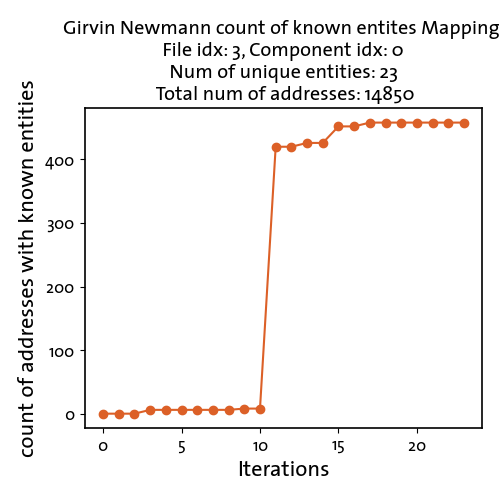
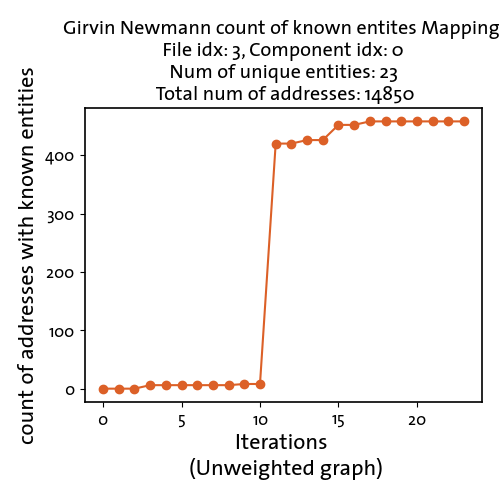
visualization title  changes

diff --git a/girvan_newmann_heuristic/src/utilities/main_gn_plot.py b/girvan_newmann_heuristic/src/utilities/main_gn_plot.py
@@ -68,7 +68,7 @@ def main(i, wt, modularity_df, save_dir):
     plot_girvan_newmann_metrics(
                                     modularity_df['count_of_known_entites'].index, 
                                     modularity_df['count_of_known_entites'], 
-                                    "Iterations", 
+                                    "Iterations \n ({} graph)".format(wt.capitalize()), 
                                     'count of addresses with known entities', 
                                     'Girvin Newmann count of known entites Mapping \n File idx: {}, Component idx: {} \n Num of unique entities: {} \n Total num of addresses: {}'.format(i, modularity_df['subgraph_index'][0], modularity_df['num_of_unique_entities_in_comp'][0], modularity_df['total_num_of_addresses_in_comp'][0]), 
                                     # 'Girvin Newmann count of known entites Mapping \n Num of unique entities in the component-{} are {} \n Total num of addresses in the component-{} are {}'.format(modularity_df['subgraph_index'][0], modularity_df['num_of_unique_entities_in_comp'][0], modularity_df['subgraph_index'][0], modularity_df['total_num_of_addresses_in_comp'][0]), 
